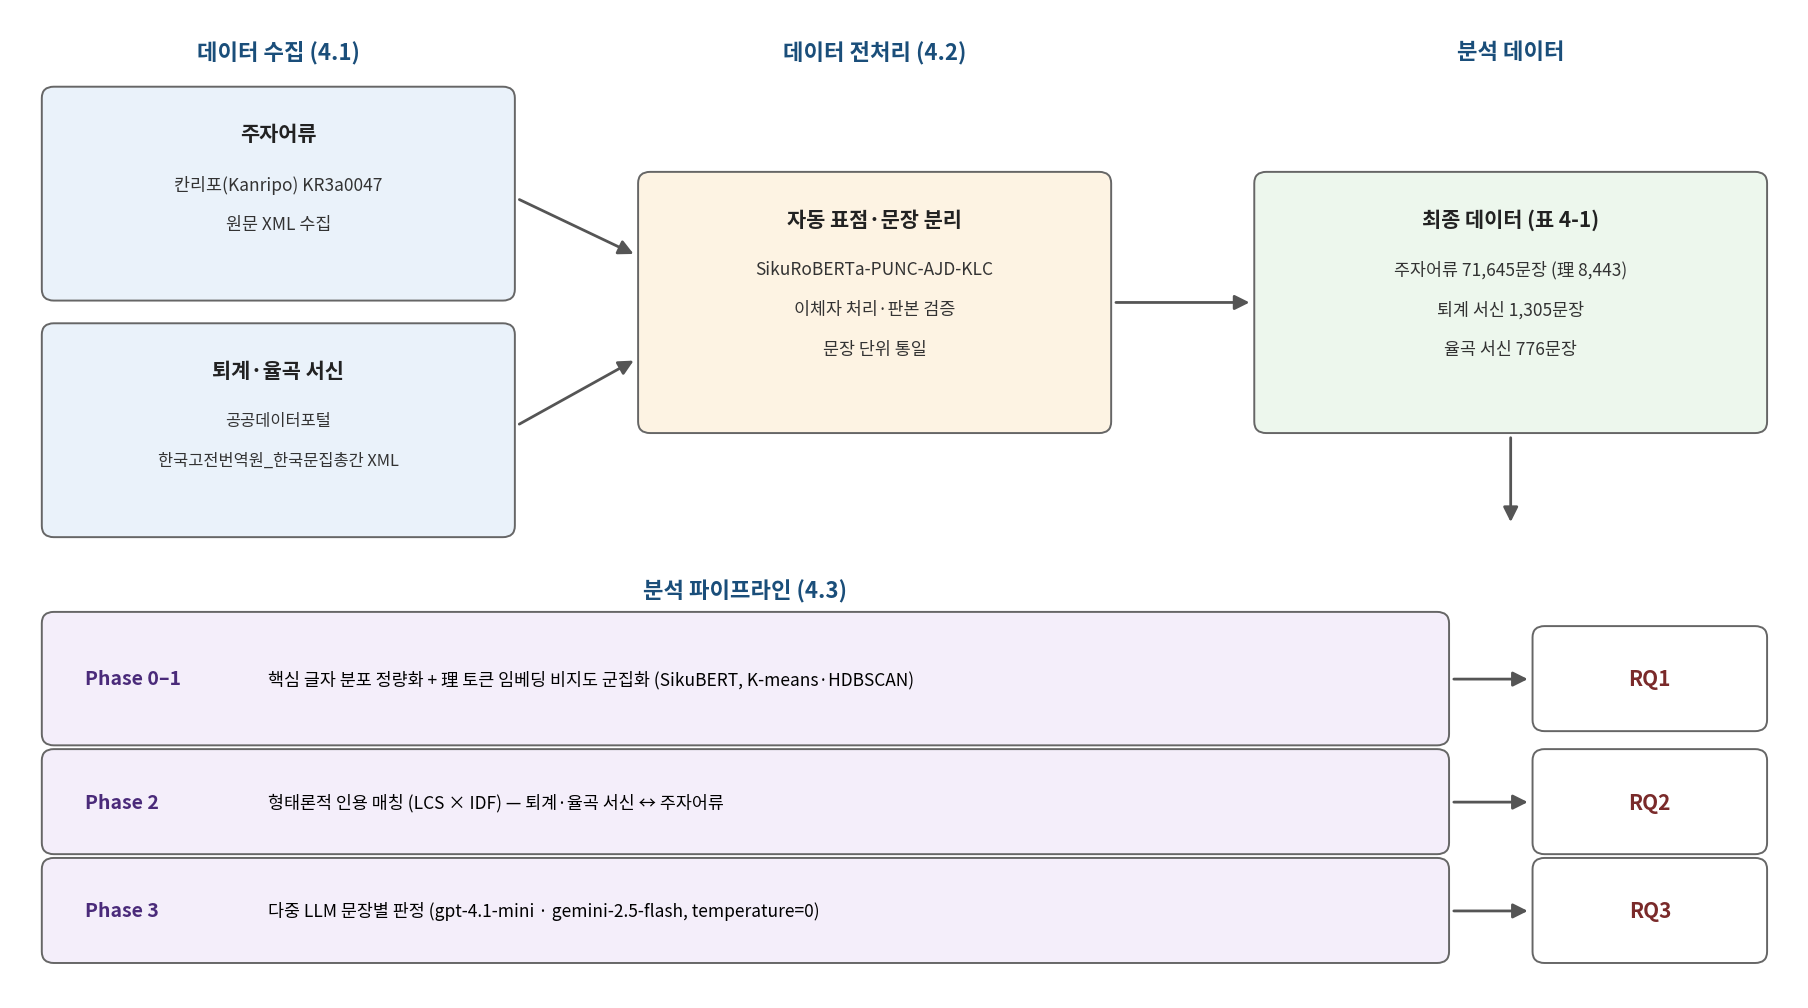
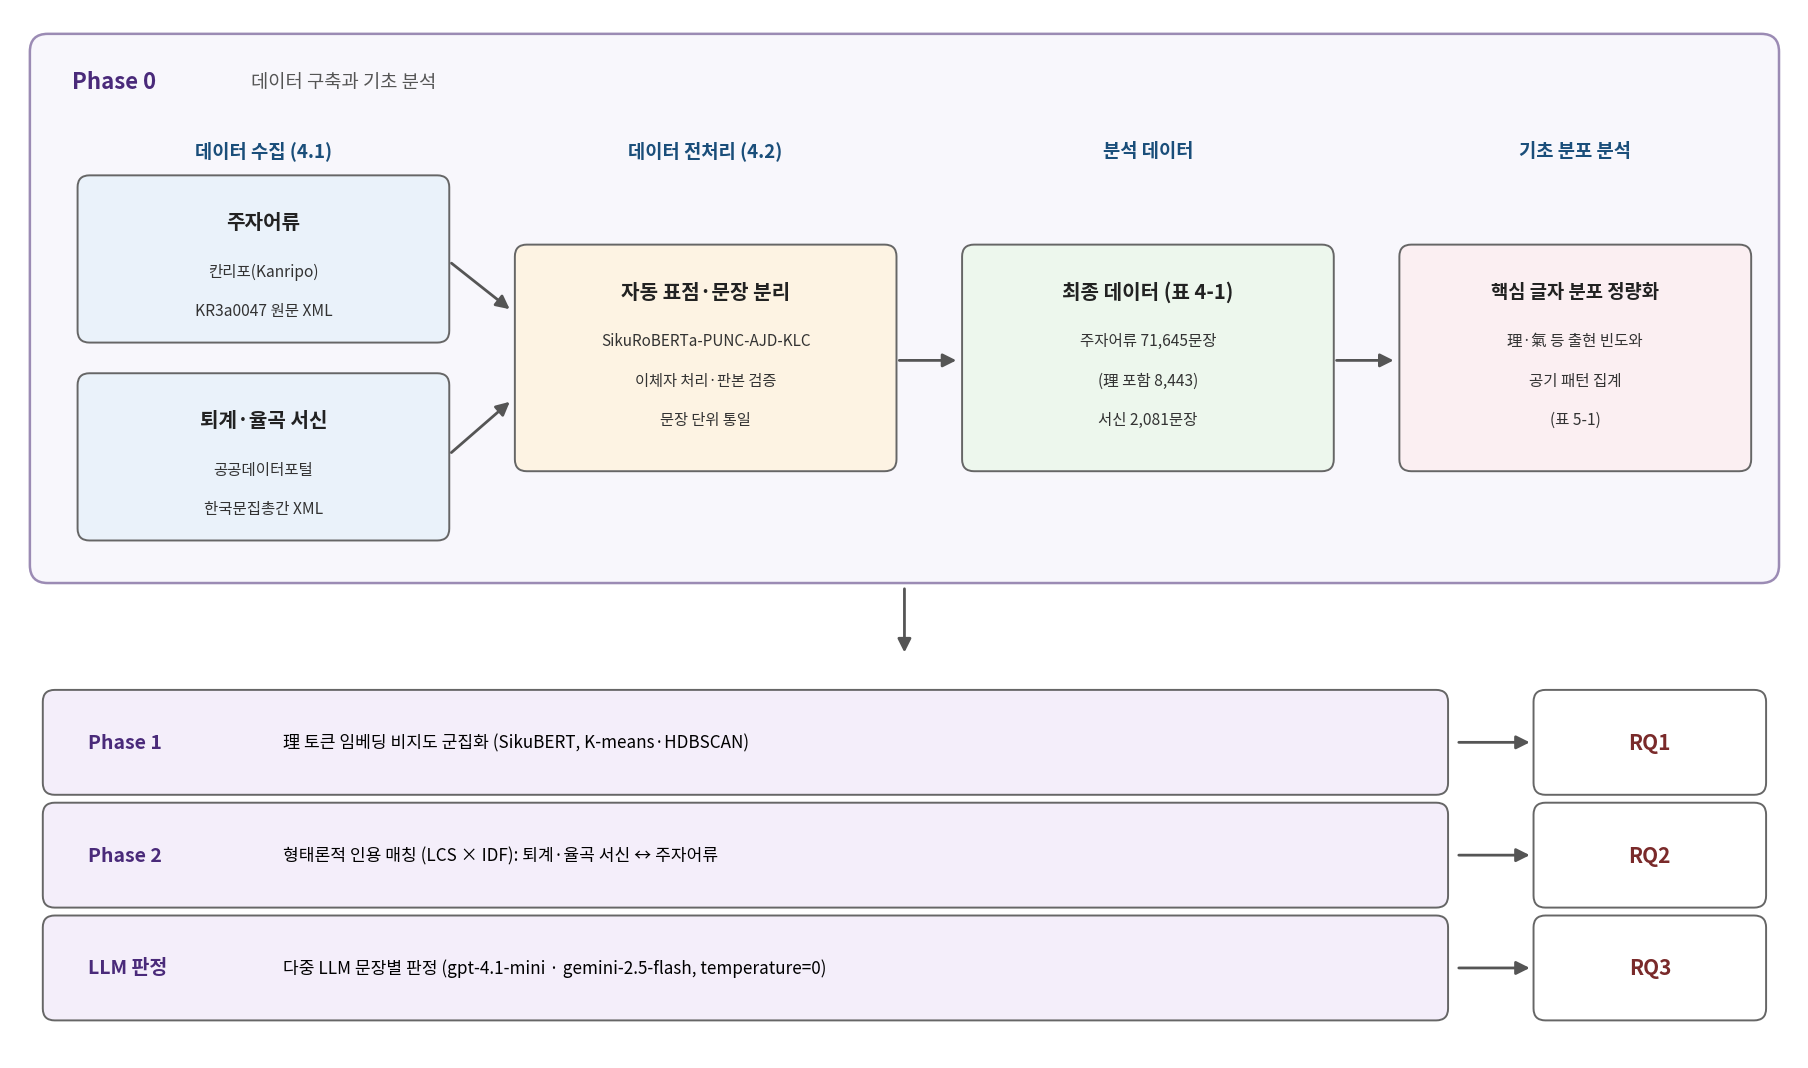
sync: Phase 0 redefined, pipeline figure v3, fix figure mapping

diff --git a/scripts/40_pipeline_figure.py b/scripts/40_pipeline_figure.py
@@ -2,6 +2,8 @@
 40_pipeline_figure.py
 
 그림 4-1: 전체 분석 프로세스 개념도 생성.
+Phase 0(데이터 수집·전처리·기초 분포 분석)을 외곽 박스로 묶고,
+Phase 1·Phase 2·LLM 판정이 RQ1~RQ3에 대응하는 구조.
 
 출력:
   figures/fig_pipeline.png
@@ -32,82 +34,93 @@ plt.rcParams["font.family"] = [
 ]
 plt.rcParams["axes.unicode_minus"] = False
 
-C_COLLECT = "#EAF2FA"; C_PREP = "#FDF3E3"; C_DATA = "#EDF7ED"
-C_PHASE = "#F4EEFA"; C_RQ = "#FFFFFF"
-EDGE = "#666666"
-
 
 def main():
     OUTPUT.parent.mkdir(parents=True, exist_ok=True)
-    fig, ax = plt.subplots(figsize=(18, 10), dpi=100)
-    ax.set_xlim(0, 18); ax.set_ylim(-0.45, 10); ax.axis("off")
+    fig, ax = plt.subplots(figsize=(18, 10.6), dpi=100)
+    ax.set_xlim(0, 18); ax.set_ylim(-0.45, 10.15); ax.axis("off")
 
-    def box(x, y, w, h, title, lines, fc, title_fs=15, body_fs=12.5):
-        ax.add_patch(FancyBboxPatch((x, y), w, h,
-                                    boxstyle="round,pad=0.08,rounding_size=0.12",
-                                    fc=fc, ec=EDGE, lw=1.4))
-        ax.text(x + w/2, y + h - 0.42, title, ha="center", va="center",
-                fontsize=title_fs, fontweight="bold", color="#222222")
-        for i, ln in enumerate(lines):
-            ax.text(x + w/2, y + h - 0.95 - i*0.42, ln, ha="center", va="center",
-                    fontsize=body_fs, color="#333333")
+    C_COLLECT = "#EAF2FA"; C_PREP = "#FDF3E3"; C_DATA = "#EDF7ED"; C_STAT = "#FBEFF2"
+    C_PHASE0_BG = "#F8F7FC"; C_PHASE = "#F4EEFA"; C_RQ = "#FFFFFF"
+    EDGE = "#666666"; P0_EDGE = "#9B8BB4"; PH_COLOR = "#4A2A7A"
+
+    def box(x, y, w, h, title, lines, fc, title_fs=14.5, body_fs=11.8, ec=EDGE, lw=1.4):
+        ax.add_patch(FancyBboxPatch((x, y), w, h, boxstyle="round,pad=0.07,rounding_size=0.12",
+                                    fc=fc, ec=ec, lw=lw))
+        if lines:
+            ax.text(x + w/2, y + h - 0.40, title, ha="center", va="center",
+                    fontsize=title_fs, fontweight="bold", color="#222222")
+            for i, ln in enumerate(lines):
+                ax.text(x + w/2, y + h - 0.90 - i*0.40, ln, ha="center", va="center",
+                        fontsize=body_fs, color="#333333")
+        elif title:
+            ax.text(x + w/2, y + h/2, title, ha="center", va="center",
+                    fontsize=title_fs, fontweight="bold", color="#222222")
 
     def arrow(x1, y1, x2, y2):
         ax.add_patch(FancyArrowPatch((x1, y1), (x2, y2), arrowstyle="-|>",
-                                     mutation_scale=22, lw=2.0, color="#555555"))
+                                     mutation_scale=20, lw=2.0, color="#555555"))
 
-    def stage(x, w, label):
-        ax.text(x + w/2, 9.55, label, ha="center", va="center",
-                fontsize=16, fontweight="bold", color="#1A4E7A")
+    # ════ Phase 0 외곽 박스 ════
+    ax.add_patch(FancyBboxPatch((0.3, 4.45), 17.4, 5.35,
+                                boxstyle="round,pad=0.10,rounding_size=0.18",
+                                fc=C_PHASE0_BG, ec=P0_EDGE, lw=1.8))
+    ax.text(0.62, 9.42, "Phase 0", fontsize=16, fontweight="bold", color=PH_COLOR,
+            ha="left", va="center")
+    ax.text(2.42, 9.42, "데이터 구축과 기초 분석", fontsize=13.5, color="#555555",
+            ha="left", va="center")
 
-    # ── 상단: 수집 → 전처리 → 분석 데이터 ──
-    stage(0.4, 4.6, "데이터 수집 (4.1)")
-    box(0.4, 7.0, 4.6, 2.1, "주자어류",
-        ["칸리포(Kanripo) KR3a0047", "원문 XML 수집"], C_COLLECT)
-    box(0.4, 4.5, 4.6, 2.1, "퇴계·율곡 서신",
-        ["공공데이터포털", "한국고전번역원_한국문집총간 XML"], C_COLLECT, body_fs=11.8)
+    def stage(xc, label):
+        ax.text(xc, 8.72, label, ha="center", va="center",
+                fontsize=13.5, fontweight="bold", color="#1A4E7A")
 
-    stage(6.4, 4.6, "데이터 전처리 (4.2)")
-    box(6.4, 5.6, 4.6, 2.6, "자동 표점·문장 분리",
-        ["SikuRoBERTa-PUNC-AJD-KLC", "이체자 처리·판본 검증", "문장 단위 통일"], C_PREP)
+    # 내부 4단: 수집 → 전처리 → 분석 데이터 → 기초 분포 분석
+    stage(2.55, "데이터 수집 (4.1)")
+    box(0.75, 6.85, 3.6, 1.55, "주자어류",
+        ["칸리포(Kanripo)", "KR3a0047 원문 XML"], C_COLLECT, body_fs=11.2)
+    box(0.75, 4.85, 3.6, 1.55, "퇴계·율곡 서신",
+        ["공공데이터포털", "한국문집총간 XML"], C_COLLECT, body_fs=11.2)
 
-    stage(12.6, 5.0, "분석 데이터")
-    box(12.6, 5.6, 5.0, 2.6, "최종 데이터 (표 4-1)",
-        ["주자어류 71,645문장 (理 8,443)", "퇴계 서신 1,305문장", "율곡 서신 776문장"], C_DATA)
+    stage(7.0, "데이터 전처리 (4.2)")
+    box(5.15, 5.55, 3.7, 2.15, "자동 표점·문장 분리",
+        ["SikuRoBERTa-PUNC-AJD-KLC", "이체자 처리·판본 검증", "문장 단위 통일"], C_PREP, body_fs=11.0)
 
-    arrow(5.1, 8.0, 6.3, 7.4)
-    arrow(5.1, 5.6, 6.3, 6.3)
-    arrow(11.1, 6.9, 12.5, 6.9)
-    arrow(15.1, 5.5, 15.1, 4.55)
+    stage(11.45, "분석 데이터")
+    box(9.65, 5.55, 3.6, 2.15, "최종 데이터 (표 4-1)",
+        ["주자어류 71,645문장", "(理 포함 8,443)", "서신 2,081문장"], C_DATA, body_fs=11.2)
 
-    # ── 하단: 분석 파이프라인 → RQ ──
-    ax.text(0.4 + 14.0/2, 3.85, "분석 파이프라인 (4.3)", ha="center", va="center",
-            fontsize=16, fontweight="bold", color="#1A4E7A")
-    box(0.4, 2.3, 14.0, 1.25, "", [], C_PHASE)
-    ax.text(0.75, 2.92, "Phase 0–1", fontsize=14, fontweight="bold",
-            color="#4A2A7A", va="center")
-    ax.text(2.6, 2.92, "핵심 글자 분포 정량화 + 理 토큰 임베딩 비지도 군집화 "
-                       "(SikuBERT, K-means·HDBSCAN)", fontsize=12.5, va="center")
-    box(0.4, 1.15, 14.0, 0.95, "", [], C_PHASE)
-    ax.text(0.75, 1.62, "Phase 2", fontsize=14, fontweight="bold",
-            color="#4A2A7A", va="center")
-    ax.text(2.6, 1.62, "형태론적 인용 매칭 (LCS × IDF) — 퇴계·율곡 서신 ↔ 주자어류",
-            fontsize=12.5, va="center")
-    box(0.4, 0.0, 14.0, 0.95, "", [], C_PHASE)
-    ax.text(0.75, 0.47, "Phase 3", fontsize=14, fontweight="bold",
-            color="#4A2A7A", va="center")
-    ax.text(2.6, 0.47, "다중 LLM 문장별 판정 (gpt-4.1-mini · gemini-2.5-flash, "
-                       "temperature=0)", fontsize=12.5, va="center")
+    stage(15.75, "기초 분포 분석")
+    box(14.05, 5.55, 3.4, 2.15, "핵심 글자 분포 정량화",
+        ["理·氣 등 출현 빈도와", "공기 패턴 집계", "(표 5-1)"], C_STAT, title_fs=13.5, body_fs=11.2)
 
-    def rq(y, yc, label):
-        box(15.4, y, 2.2, 0.95, "", [], C_RQ)
-        ax.text(16.5, yc, label, ha="center", va="center",
-                fontsize=15, fontweight="bold", color="#7A2A2A")
+    arrow(4.42, 7.6, 5.05, 7.1)
+    arrow(4.42, 5.65, 5.05, 6.2)
+    arrow(8.92, 6.6, 9.55, 6.6)
+    arrow(13.32, 6.6, 13.95, 6.6)
 
-    rq(2.45, 2.92, "RQ1"); rq(1.15, 1.62, "RQ2"); rq(0.0, 0.47, "RQ3")
-    arrow(14.5, 2.92, 15.3, 2.92)
-    arrow(14.5, 1.62, 15.3, 1.62)
-    arrow(14.5, 0.47, 15.3, 0.47)
+    # Phase 0 → 본 분석
+    arrow(9.0, 4.32, 9.0, 3.62)
+
+    # ════ 본 분석 3행 → RQ ════
+    rows = [
+        ("Phase 1", "理 토큰 임베딩 비지도 군집화 (SikuBERT, K-means·HDBSCAN)", "RQ1"),
+        ("Phase 2", "형태론적 인용 매칭 (LCS × IDF): 퇴계·율곡 서신 ↔ 주자어류", "RQ2"),
+        ("LLM 판정", "다중 LLM 문장별 판정 (gpt-4.1-mini · gemini-2.5-flash, temperature=0)", "RQ3"),
+    ]
+    ROW_H, GAP, Y0 = 0.92, 0.22, 0.0
+    for i, (ph, desc, rqlab) in enumerate(rows):
+        y = Y0 + (len(rows) - 1 - i) * (ROW_H + GAP)
+        yc = y + ROW_H / 2
+        box(0.4, y, 14.0, ROW_H, "", [], C_PHASE)
+        ax.text(0.78, yc, ph, fontsize=14, fontweight="bold", color=PH_COLOR, va="center")
+        ax.text(2.75, yc, desc, fontsize=12.3, va="center")
+        box(15.4, y, 2.2, ROW_H, rqlab, [], C_RQ, title_fs=15)
+        ax.text(16.5, yc, "", ha="center")
+        # RQ 라벨 색 보정: box()가 검정으로 그렸으니 덧칠
+        ax.text(16.5, yc, rqlab, ha="center", va="center", fontsize=15,
+                fontweight="bold", color="#7A2A2A",
+                bbox=dict(boxstyle="square,pad=0.08", fc=C_RQ, ec="none"))
+        arrow(14.55, yc, 15.32, yc)
 
     plt.tight_layout(pad=0.4)
     plt.savefig(OUTPUT, dpi=100, bbox_inches="tight", facecolor="white")

diff --git a/README_EN.md b/README_EN.md
@@ -19,7 +19,9 @@ This project examines the hypothesis that the textual polysemy of the *Zhuzi yul
 
 Stage divisions follow the chapter structure of the final report.
 
-### Data Collection & Preprocessing (Report §4.1–4.2)
+### Phase 0: Data Construction & Baseline Analysis (Report §4.1–4.2, §5.1)
+
+Phase 0 spans data collection and preprocessing (scripts 01–15) plus the quantitative distribution of key characters (16); together they form the common basis for all subsequent analyses.
 
 - `common/punctuate_hanja.py` — shared module for punctuation restoration with SikuRoBERTa-PUNC-AJD-KLC
 
@@ -38,8 +40,7 @@ Correspondence processing (22 Toegye letters + 9 Yulgok letters):
 - `14_annotate_letters.py` — 理/氣 flags
 - `15_export_letters_xlsx.py` — final spreadsheet
 
-### Phase 0: Quantitative Distribution Analysis (Report §5.1)
-
+Baseline distribution analysis:
 - `16_letter_char_stats.py` — distribution of key characters in the correspondence data (reproduces Report Table 5-1)
 
 ### Phase 1: Embedding Clustering of 理 (Report §5.2 → RQ1)
@@ -83,7 +84,7 @@ The matching domain is restricted to 理-containing sentence pairs: 510 letter s
 | Letters | 31 (22 Toegye + 9 Yulgok) |
 | Letter sentences | 2,081 (1,305 Toegye + 776 Yulgok, avg. 23.3 chars) |
 
-### Phase 0: Distributional Asymmetry (Report Table 5-1)
+### Phase 0 Baseline: Distributional Asymmetry (Report Table 5-1)
 
 | Item | Toegye | Yulgok | Ratio (Y/T) |
 |---|---|---|---|
@@ -214,7 +215,7 @@ python3 scripts/31_llm_agreement.py --merged data/llm_judgment/merged_2models.cs
 
 ## Changelog
 
-- **2026-06-12**: Synchronized with the finalized report. Final title reflected; terminology unified ('corpus' → 'data'); cluster identity labels added to both UMAP figures (`24_visualize_clusters.py` patched with size-rank-based mapping); overall process diagram (Figure 4-1) and its generator (`40_pipeline_figure.py`) added; English README added; citation-table corrections reflected (T0513 → shared source, Cheng Mingdao's "Dingxing shu"; Y0018 → idiomatic 是理當如此, not a citation)
+- **2026-06-12**: Synchronized with the finalized report. Phase 0 redefined explicitly as the whole of data construction (collection & preprocessing) plus the baseline distribution analysis, matching Report §4.3 and Figure 4-1. Final title reflected; terminology unified ('corpus' → 'data'); cluster identity labels added to both UMAP figures (`24_visualize_clusters.py` patched with size-rank-based mapping); overall process diagram (Figure 4-1) and its generator (`40_pipeline_figure.py`) added; English README added; citation-table corrections reflected (T0513 → shared source, Cheng Mingdao's "Dingxing shu"; Y0018 → idiomatic 是理當如此, not a citation)
 - **2026-06-11**: Documentation sync against the final report. LLM adjudication results, AI usage, and data collection dates recorded in README; requirements.txt rebuilt; Phase 0 stats script (16) added; source for the 7 core Toegye letters corrected to Kim Sejong (2024, *Han'guk ch'ŏrhak nonjip* 83) (previously misattributed to Hwang Junyeon (2009)); ≥6-char citation counts corrected against the outputs (Toegye 42, Yulgok 8)
 - **2026-06-01**: Sentence-level LLM adjudication pipeline (30, 31_llm_agreement) and results added (2 models via OpenRouter, 8,428 sentences)
 - **2026-05-14**: Phase 1 switched to token embeddings (from sentence embeddings); Phase 2 LCS+IDF citation matching pipeline added

diff --git a/README.md b/README.md
@@ -19,7 +19,9 @@
 
 단계 구분은 최종보고서의 장 구성을 따른다.
 
-### 데이터 수집·전처리 (보고서 §4.1–4.2)
+### Phase 0: 데이터 구축과 기초 분석 (보고서 §4.1–4.2, §5.1)
+
+데이터 수집·전처리(01~15)와 핵심 글자 분포의 정량화(16)까지가 후속 분석의 공통 기반인 Phase 0이다.
 
 - `common/punctuate_hanja.py` — SikuRoBERTa-PUNC-AJD-KLC 표점 부여 공통 모듈
 
@@ -38,8 +40,7 @@
 - `14_annotate_letters.py` — 理/氣 플래그
 - `15_export_letters_xlsx.py` — 최종 스프레드시트
 
-### Phase 0: 정량 분포 분석 (보고서 §5.1)
-
+기초 분포 분석:
 - `16_letter_char_stats.py` — 서신 데이터 핵심 글자 분포 집계 (보고서 표 5-1 재현)
 
 ### Phase 1: 理 임베딩 클러스터링 (보고서 §5.2 → RQ1)
@@ -79,7 +80,7 @@
 | 서신 letter 수 | 31편 (퇴계 22 + 율곡 9) |
 | 서신 sentence 수 | 2,081 (퇴계 1,305 + 율곡 776, 평균 23.3자) |
 
-### Phase 0: 분포 비대칭 (보고서 표 5-1)
+### Phase 0 기초 분석: 분포 비대칭 (보고서 표 5-1)
 
 | 항목 | 퇴계 | 율곡 | 비율(율곡/퇴계) |
 |---|---|---|---|
@@ -209,7 +210,7 @@ python3 scripts/31_llm_agreement.py --merged data/llm_judgment/merged_2models.cs
 
 ## 변경 이력
 
-- **2026-06-12**: 최종보고서 확정판 동기화. 보고서 제목 확정 반영, '코퍼스'→'데이터' 용어 통일, UMAP 그림 2종에 군집 정체 레이블 추가(`24_visualize_clusters.py` 패치 — 크기 순위 기반 매핑), 전체 프로세스 개념도(그림 4-1) 및 생성 스크립트(`40_pipeline_figure.py`) 추가, 영문 README(`README_EN.md`) 추가, 인용 매칭 표 정정 반영(T0513 → 程明道 「定性書」 공통 전거, Y0018 → 是理當如此 관용 표현)
+- **2026-06-12**: 최종보고서 확정판 동기화. Phase 0 정의를 '데이터 구축(수집·전처리)과 기초 분포 분석 전체'로 명확화(보고서 §4.3·그림 4-1과 일치). 보고서 제목 확정 반영, '코퍼스'→'데이터' 용어 통일, UMAP 그림 2종에 군집 정체 레이블 추가(`24_visualize_clusters.py` 패치 — 크기 순위 기반 매핑), 전체 프로세스 개념도(그림 4-1) 및 생성 스크립트(`40_pipeline_figure.py`) 추가, 영문 README(`README_EN.md`) 추가, 인용 매칭 표 정정 반영(T0513 → 程明道 「定性書」 공통 전거, Y0018 → 是理當如此 관용 표현)
 - **2026-06-11**: 최종보고서 기준 문서 동기화. LLM 판정 결과·AI 사용 정보·데이터 수집 시점을 README에 명시, requirements.txt 정비, Phase 0 집계 스크립트(16) 추가, 퇴계 핵심 7편 식별 출처를 김세종(2024, 한국철학논집 83)으로 정정(종전 황준연(2009) 오기), 인용 매칭 6자 이상 수치를 산출물 기준으로 정정(퇴계 42·율곡 8)
 - **2026-06-01**: LLM 문장별 판정 파이프라인(30·31_llm_agreement) 및 결과 추가 (OpenRouter 2모델, 8,428문장)
 - **2026-05-14**: Phase 1 토큰 임베딩 전환 (문장 임베딩 → 理 토큰 임베딩), Phase 2 LCS+IDF 인용 매칭 파이프라인 추가
